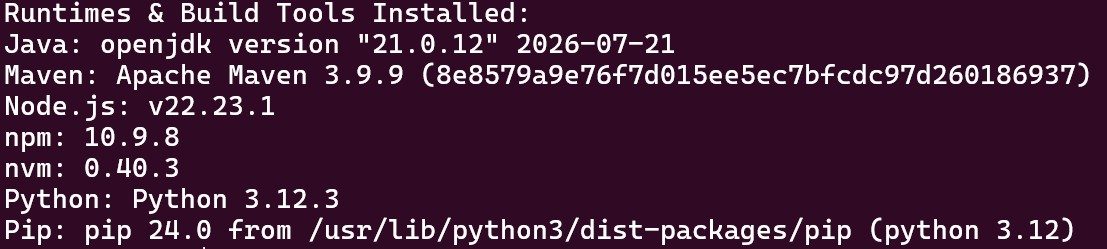
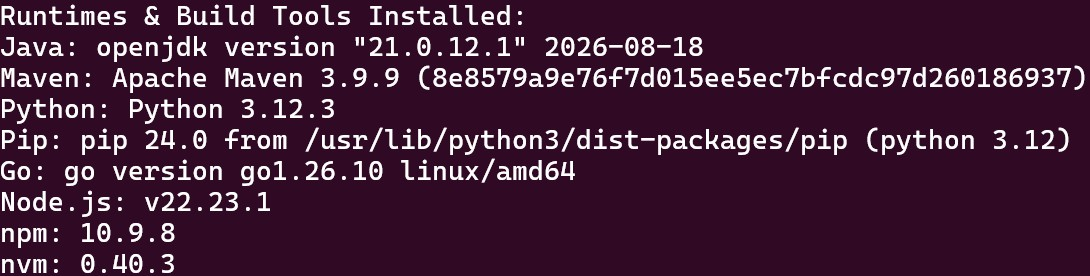
added go lang installation script

Changed region(s): [[0.0, 0.0, 0.9982, 1.0]]

diff --git a/scripts/readme.md b/scripts/readme.md
@@ -70,3 +70,18 @@ chmod +x scripts/cleanup/*.sh
 ./scripts/cleanup/03-devops-tools.sh
 ./scripts/cleanup/04-container-tools.sh
 ```
+
+### 📥 Tool Installation & Official Guides
+
+- Follow the official [Docker Installation Guide](https://docs.docker.com/engine/install/) to set up the container runtime.
+- Install and configure cloud management tools using the [AWS CLI Installation Guide](https://docs.aws.amazon.com/cli/latest/userguide/getting-started-install.html).
+- Set up [Python](https://www.python.org/downloads/) and its package manager via the [Python Packaging Installation Guide](https://packaging.python.org/en/latest/tutorials/installing-packages/).
+- Configure [Java runtimes](https://openjdk.org/projects/jdk/21/) and build tools using the [Apache Maven Installation Guide](https://maven.apache.org/install.html).
+- Install the Go programming language via the [Go Installation Guide](https://go.dev/doc/install).
+- Manage node versions and packages using the [nvm github repository](https://github.com/nvm-sh/nvm) and [npm documentation](https://docs.npmjs.com/downloading-and-installing-node-js-and-npm).
+- Set up container and filesystem security scanners using the [Trivy Installation Guide](https://trivy.dev/docs/latest/getting-started/installation/).
+- Install Infrastructure-as-Code tools via the [Terraform CLI Installation Guide](https://developer.hashicorp.com/terraform/tutorials/aws-get-started/install-cli).
+- Set up automation tools using the [Ansible Installation Guide](https://docs.ansible.com/projects/ansible/latest/installation_guide/intro_installation.html).
+- Install version control utilities using the [Git Installation Guide](https://git-scm.com/book/en/v2/Getting-Started-Installing-Git).
+- Install YAML and JSON command-line processors via the [yq repository](https://github.com/mikefarah/yq#install) and [jq download page](https://jqlang.org/download/).
+- Set up build automation utilities using the [GNU Make Documentation](https://www.gnu.org/software/make/).

diff --git a/docs/00-tools-versions.md b/docs/00-tools-versions.md
@@ -18,6 +18,7 @@
 | **Package Managers** | nvm / npm | `v0.40.3` / `v10.9.8` |
 | | pip | `v24.0` |
 | **Build Tool** | Apache Maven | `v3.9.9` |
+| **GO Lang** | GO Lang | `v1.26.10` |
 
 
 ### 2. Containers & Local Kubernetes
